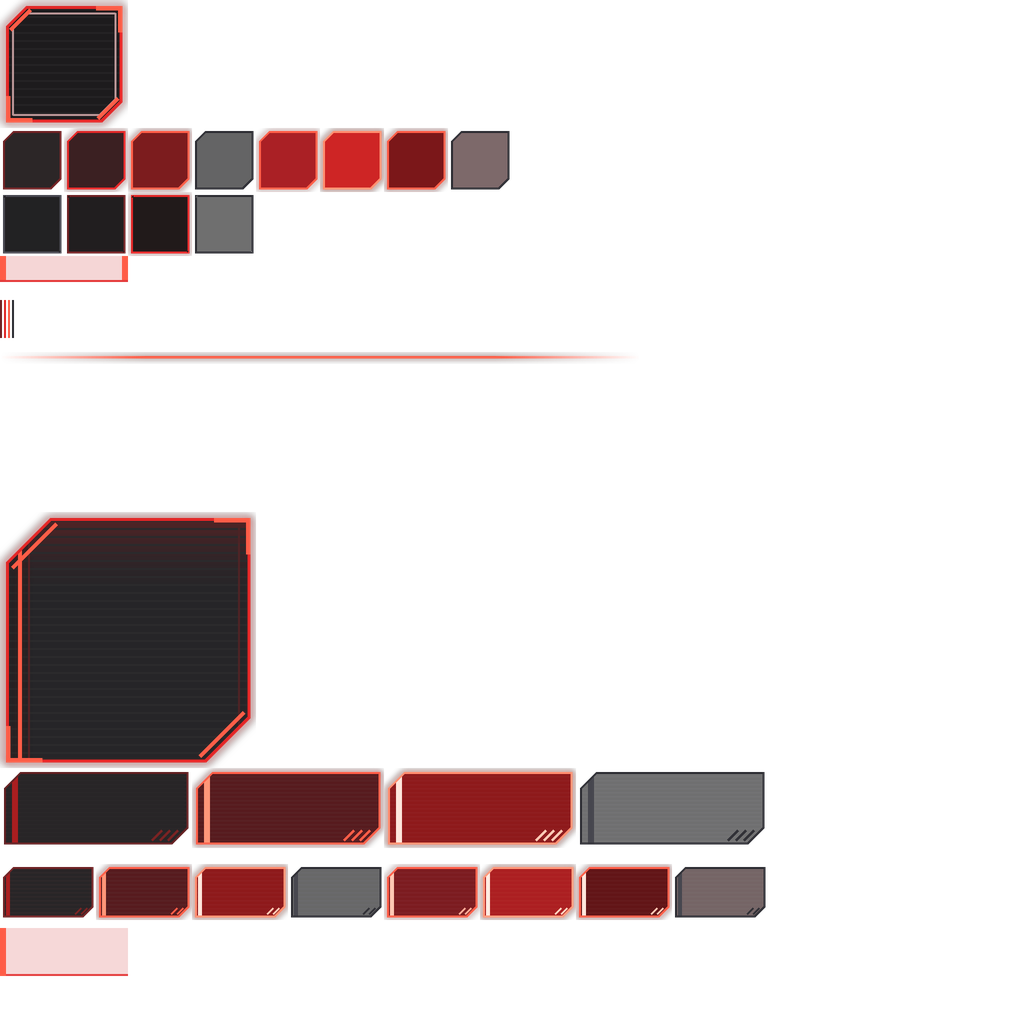
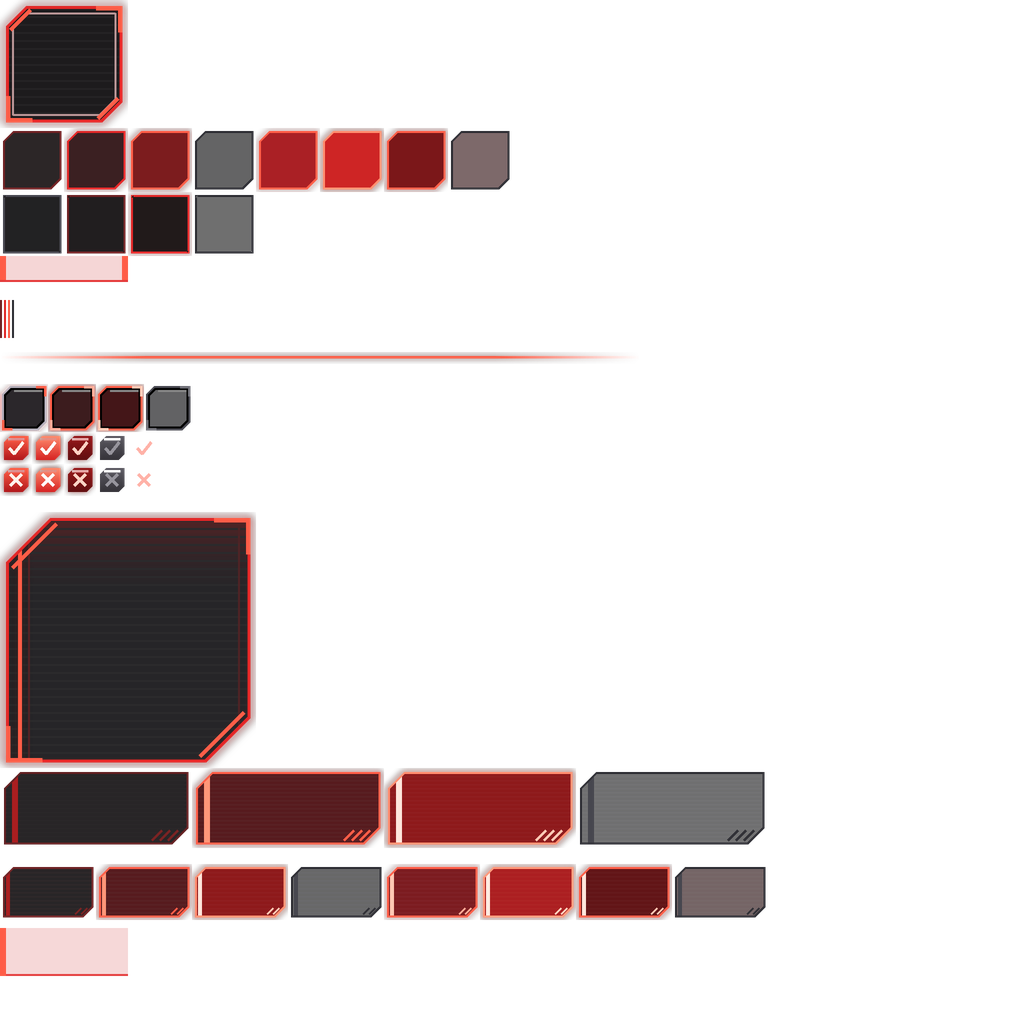
Rajdhani UI fonts everywhere and styled checkboxes
Stock fonts (Tiny..BigBold) now use Rajdhani to match the PX skin.
Checkboxes get their own steel socket frames (px-cbox) and red lamp
tick/cross marks with hover, pressed, disabled and ghost-hover states.

Changed region(s): [[0.0, 0.375, 0.1875, 0.5]]

diff --git a/artsrc/px-ui/generate.py b/artsrc/px-ui/generate.py
@@ -273,6 +273,92 @@ rect(0, 464, 64, 24, (200, 30, 30, 44))
 rect(0, 487, 64, 1, (*RED, 220))
 rect(0, 464, 3, 24, (*RED_BRIGHT, 255))
 
+# --- Checkbox frames: 24x24 cells at row y=192; 6px corners ---------------------------------
+# Recessed steel socket: chamfered TL/BR, dark well, bright corner brackets on TR/BL (corners only,
+# so the 12px tiled middle stays uniform).
+def checkbox_frame(x, y, fill, border, bracket, glow=None, s=24, cut=4, margin=1.0):
+    X, Y, S, m, c = x * SS, y * SS, s * SS, margin * SS, cut * SS
+    layer = Image.new("RGBA", sheet.size, (0, 0, 0, 0))
+    outline = chamfer_poly(X + m, Y + m, S - 2 * m, S - 2 * m, c, c)
+    if glow:
+        g = Image.new("RGBA", sheet.size, (0, 0, 0, 0))
+        ImageDraw.Draw(g).line(outline + [outline[0]], fill=glow, width=2 * SS, joint="curve")
+        layer.alpha_composite(g.filter(ImageFilter.GaussianBlur(1.2 * SS)))
+    d = ImageDraw.Draw(layer)
+    d.polygon(outline, fill=border)
+    d.polygon(chamfer_poly(X + m, Y + m, S - 2 * m, S - 2 * m, c, c, inset=SS), fill=(0, 0, 0, 255))
+    d.polygon(chamfer_poly(X + m, Y + m, S - 2 * m, S - 2 * m, c, c, inset=2 * SS), fill=fill)
+    # inner shadow along the top edge sells the recess
+    d.rectangle([X + m + c + 2 * SS, Y + m + 2 * SS, X + S - m - 2 * SS, Y + m + 3 * SS - 1], fill=(0, 0, 0, 120))
+    L, T = 5 * SS, SS
+    x0, y0, x1, y1 = X + m, Y + m, X + S - m, Y + S - m
+    d.rectangle([x1 - L, y0, x1, y0 + T], fill=bracket)
+    d.rectangle([x1 - T, y0, x1, y0 + L], fill=bracket)
+    d.rectangle([x0, y1 - T, x0 + L, y1], fill=bracket)
+    d.rectangle([x0, y1 - L, x0 + T, y1], fill=bracket)
+    sheet.alpha_composite(layer.crop((X, Y, X + S, Y + S)), (X, Y))
+
+
+checkbox_frames = [
+    # fill, border, bracket, glow
+    ((34, 30, 34, 245), (176, 170, 182, 255), (*RED_BRIGHT, 255), (*RED, 90)),       # normal
+    ((52, 20, 22, 245), (*RED_BRIGHT, 255), (255, 170, 150, 255), (*RED, 190)),       # hover
+    ((60, 14, 16, 245), (*RED_BRIGHT, 255), (255, 200, 180, 255), (*RED_BRIGHT, 180)),  # pressed / highlighted
+    ((20, 20, 22, 170), (*STEEL, 255), (110, 110, 118, 255), None),                   # disabled
+]
+for i, (fill, border, bracket, glow) in enumerate(checkbox_frames):
+    checkbox_frame(i * 24, 192, fill, border, bracket, glow)
+
+
+# --- Checkmarks: 16x16 cells at row y=216 (ticks) and y=232 (crosses) ------------------------
+# A glowing red indicator lamp with a white-hot symbol cut into it.
+def checkmark(x, y, symbol, lamp_top, lamp_bottom, ink, glow, ghost=False):
+    X, Y, S = x * SS, y * SS, 16 * SS
+    layer = Image.new("RGBA", sheet.size, (0, 0, 0, 0))
+    lamp = chamfer_poly(X + 2 * SS, Y + 2 * SS, 12 * SS, 12 * SS, 3 * SS, 3 * SS)
+    if symbol == "tick":
+        pts = [(X + 4.6 * SS, Y + 8.2 * SS), (X + 7.0 * SS, Y + 10.8 * SS), (X + 11.6 * SS, Y + 5.0 * SS)]
+    else:
+        pts = None
+    if glow:
+        g = Image.new("RGBA", sheet.size, (0, 0, 0, 0))
+        ImageDraw.Draw(g).polygon(lamp, fill=glow)
+        layer.alpha_composite(g.filter(ImageFilter.GaussianBlur(1.4 * SS)))
+    d = ImageDraw.Draw(layer)
+    if not ghost:
+        mask = Image.new("L", sheet.size, 0)
+        ImageDraw.Draw(mask).polygon(lamp, fill=255)
+        grad = Image.new("RGBA", sheet.size, (0, 0, 0, 0))
+        gd = ImageDraw.Draw(grad)
+        for yy in range(12 * SS):
+            t = yy / (12 * SS)
+            col = tuple(int(lamp_top[k] + (lamp_bottom[k] - lamp_top[k]) * t) for k in range(4))
+            gd.line([(X, Y + 2 * SS + yy), (X + S, Y + 2 * SS + yy)], fill=col)
+        # glossy highlight across the upper third
+        gd.rectangle([X + 4 * SS, Y + 3 * SS, X + 12 * SS, Y + 4 * SS], fill=(255, 255, 255, 60))
+        layer.paste(Image.alpha_composite(layer, grad), (0, 0), mask)
+        d = ImageDraw.Draw(layer)
+    w = int(1.9 * SS)
+    if pts:
+        d.line(pts, fill=ink, width=w, joint="curve")
+    else:
+        d.line([(X + 5.2 * SS, Y + 5.2 * SS), (X + 10.8 * SS, Y + 10.8 * SS)], fill=ink, width=w)
+        d.line([(X + 10.8 * SS, Y + 5.2 * SS), (X + 5.2 * SS, Y + 10.8 * SS)], fill=ink, width=w)
+    sheet.alpha_composite(layer.crop((X, Y, X + S, Y + S)), (X, Y))
+
+
+marks = [
+    # lamp_top, lamp_bottom, ink, glow, ghost
+    ((255, 96, 72, 255), (176, 22, 26, 255), (255, 244, 236, 255), (*RED, 200), False),      # checked
+    ((255, 140, 110, 255), (214, 34, 34, 255), (255, 255, 255, 255), (*RED_BRIGHT, 255), False),  # checked-hover
+    ((150, 24, 26, 255), (96, 14, 16, 255), (255, 210, 196, 255), (*RED, 160), False),       # checked-pressed
+    ((92, 90, 98, 255), (52, 50, 56, 255), (150, 148, 156, 255), None, False),               # checked-disabled
+    (None, None, (*RED_BRIGHT, 120), None, True),                                           # unchecked-hover (ghost)
+]
+for row, symbol in ((216, "tick"), (232, "cross")):
+    for i, (top, bottom, ink, glow, ghost) in enumerate(marks):
+        checkmark(i * 16, row, symbol, top, bottom, ink, glow, ghost)
+
 # --- Write 1x and 2x sheets -------------------------------------------------------------------
 for scale, name in ((1, "px-ui.png"), (2, "px-ui-2x.png")):
     out = sheet.resize((SHEET_W * scale, SHEET_H * scale), Image.LANCZOS)
